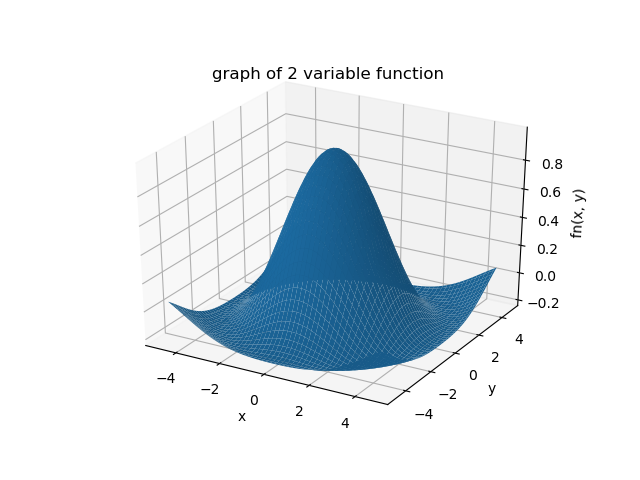
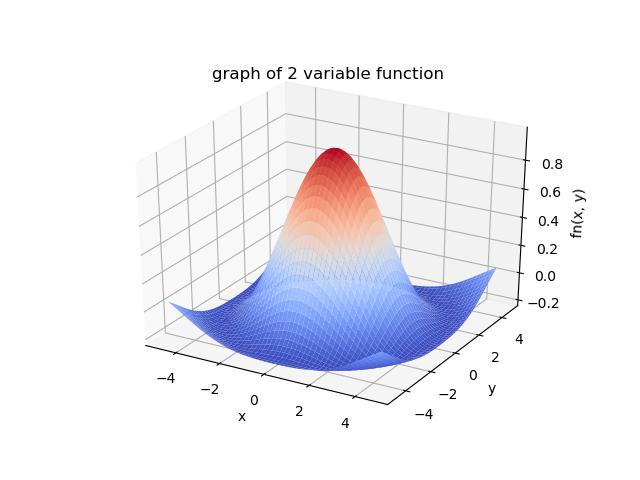
beautified 2d plot  ; )

Changed region(s): [[0.25, 0.3125, 0.7812, 0.7812]]

diff --git a/task4/task4.py b/task4/task4.py
@@ -2,6 +2,7 @@ import numpy as np
 from scipy.misc import derivative
 import matplotlib.pyplot as plt
 from mpl_toolkits.mplot3d import axes3d
+from matplotlib import cm
 def fn_plot1d(fn, x_min, x_max, filename):
     func=np.vectorize(fn)
     x=np.linspace(x_min, x_max, (x_max-x_min)*100+1)
@@ -22,7 +23,7 @@ def fn_plot2d(fn, x_min, x_max, y_min, y_max, filename):
     Z=func(X, Y)
     fig=plt.figure()
     ax = fig.gca(projection='3d')
-    ax.plot_surface(X, Y, Z)
+    ax.plot_surface(X, Y, Z, cmap=cm.coolwarm)
     ax.set_xlabel('x')
     ax.set_ylabel('y')
     ax.set_zlabel('fn(x, y)')
